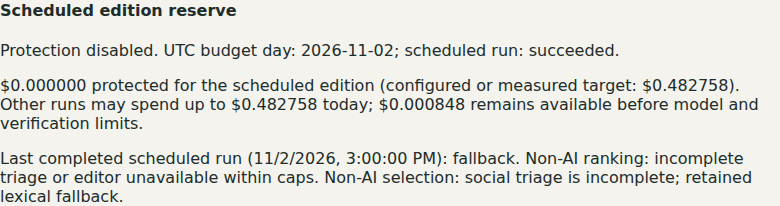
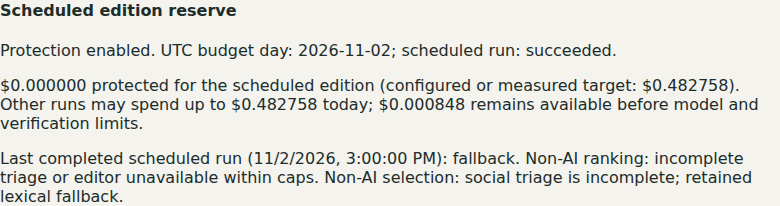
Enable scheduled edition AI budget protection in production

Changed region(s): [[0.0923, 0.2039, 0.8, 0.2913]]

diff --git a/PROGRESS.md b/PROGRESS.md
@@ -74,17 +74,6 @@ Iteration 189: [archive](docs/progress-archive/2026-11-02-iteration-189.md).
 
 Iteration 192: [archive](docs/progress-archive/2026-11-02-iteration-192.md).
 
-## 2026-11-02: iteration 194 — measured full-AI edition costs
-
-- Started clean on main; API/worker and DB/Redis health healthy. No leftover work; 32 sources without current errors and latest real edition four topics/10 posts.
-- Added a read-only historical cost reader for reserve sizing: sums settled article/social/model calls by edition/run ID over an inclusive 30-day lookback, newest ten qualifying editions.
-- Excludes fallback/mixed modes, incomplete triage, pending/uncertain holds, verification-tagged runs, future snapshots and cache-only/zero-cost editions. Failed released calls add no cost.
-- Conservative qualification requires AI in both sections of every topic; absent measurements retain whole-day protection in the existing policy. Accepts a transaction client for later shared-lock admission integration.
-- Added rollback-isolated Postgres fixtures for costs, ordering/limits, UTC lookback boundaries and exclusions. No live inference or Reddit requests; no UI changes.
-- `pnpm format`, `pnpm lint:fix`, `pnpm check` (104 unit/98 isolated integration), `pnpm build` and `git diff --check` passed. Updated decision 0002, README and TASKS.
-- Live reserve protection remains UNFINISHED. Next: cron/settings reconciliation, worker lifecycle and trusted scheduled identity, shared-lock admission/race tests, then manual/Status visibility before Nov 3 15:00 UTC.
-- Pushed `be4b6d2`; restarted API/worker with `systemctl --user restart news-digest-api news-digest-worker`: both active, `/healthz` DB/Redis true, SPA 200, all four queues available, 32 sources without errors, latest real edition four topics/10 posts.
-
 ## 2026-11-02: iteration 195 — reconcile pending reserve identities
 
 - Started clean on main; API/worker, DB/Redis health and 32 sources healthy. No leftover work.
@@ -256,3 +245,16 @@ Iteration 192: [archive](docs/progress-archive/2026-11-02-iteration-192.md).
 - `pnpm exec tsx scripts/smoke-manual-reserve.ts` passed desktop/mobile protected, submission-refresh, released and unavailable states using synthetic browser responses; saved live screenshots.
 - Live reads: four queues, 32 sources without errors, latest real edition four topics/10 posts; health DB/Redis true. No paid inference, live jobs or Reddit requests.
 - Updated reserve decision/TASKS and archived iteration 193. Reserve enforcement remains OFF; next: enable protection before Nov 3 15:00 UTC and measure scheduled cost/duration.
+
+## 2026-11-02: iteration 210 — enable scheduled AI budget protection
+
+- Started clean on main; services, health and 32 sources healthy. No leftover work.
+- Enabled shared environment reserve protection, 1.5x headroom, no fixed override; API/worker process environments verified without exposing secrets.
+- Default measured sizing protects the full daily cap without qualifying full-AI history; existing provider/model/billing caps remain unchanged.
+- Live Status: protection enabled, Nov 2 terminal fallback, $0.482758 target/$0 protected; Nov 3 15:00 UTC remains queued.
+- `pnpm format`, `pnpm lint:fix`, `pnpm check` (113 unit/113 isolated integration), `pnpm build`, `git diff --check` passed.
+- `pnpm exec tsx scripts/smoke-reserve-status.ts` passed live desktop/mobile plus synthetic protected/released states; updated screenshots.
+- `pnpm exec tsx scripts/report-edition-timing.ts` confirms retained four-topic/10-post fallback; no new AI timing claim.
+- Restarted API/worker; health DB/Redis true, SPA 200, 32 sources without errors. No paid inference, live jobs or Reddit requests.
+- Updated README/reserve decision/TASKS; archived iteration 194. Item 13 stays open for Nov 3 AI cost/duration evidence; no premature steering ack.
+- Next: observe scheduled run and measure AI editing/cost/duration; then scheduled X discovery under item 9.

diff --git a/README.md b/README.md
@@ -70,7 +70,7 @@ using stable publication keys and compare-and-swap settings reconciliation. Test
 cover delayed snapshots racing registration/reconciliation, restarts, day rollover
 and protection of claimed/terminal work. Published-slot recovery tests cover
 AI/mixed/fallback snapshots, manual-key exclusion, restart after cutoff and
-attempt fencing. Live ledger reserve enforcement remains unfinished.
+attempt fencing. Shared-lock reserve admission and lifecycle ordering are covered by isolated tests.
 `pnpm test` runs both commands; integration tests remain part of `pnpm check`.
 Both runners replace inherited database/Redis URLs, clear Anthropic/xAI keys and
 live-inference opt-in. Docker is required only for integration tests; there is no
@@ -158,7 +158,7 @@ BullMQ retains 100 successful/failed runs and retries failures three times with
 exponential backoff. Downtime does not backfill every missed daily edition.
 Scheduler refresh marks never-claimed daily budget slots failed after the same
 six-hour recovery window used by the worker; active attempts and retries remain
-protected. Budget reserve admission is still being implemented.
+protected. Shared-ledger admission protects the scheduled edition before other runs.
 Async API clients can `POST /api/digest-previews/jobs` with ISO `windowStart`
 and `windowEnd` values to receive HTTP 202 and a job ID without waiting for
 inference. Poll `GET /api/digest-previews/jobs/:id` for queue state, `editionId`,
@@ -358,18 +358,22 @@ never-claimed budget identity; concurrent claims and replacements are preserved.
 Refresh also recovers committed scheduled editions before the missed-slot cutoff,
 using immutable publication evidence and identity/attempt fencing under the ledger
 lock. Manual editions cannot release scheduled protection.
-Remaining reserve integration is tracked in
-[decision 0002](docs/decisions/0002-scheduled-edition-budget-reserve.md); ledger
-admission now has an opt-in shared-lock reserve primitive with attempt-fenced
-trusted context, but production enforcement is not active yet.
+Reserve implementation and rollout are tracked in
+[decision 0002](docs/decisions/0002-scheduled-edition-budget-reserve.md). Ledger
+admission uses shared-lock protection with attempt-fenced trusted context.
+Production enforcement was enabled in iteration 210.
 
 Anthropic production publication and guarded verification tools share
 `configuredLlmLedger`. Reserve deployment settings are
 `LLM_SCHEDULED_RESERVE_ENABLED` (`0` default, `1` opt-in), optional integer
 `LLM_SCHEDULED_RESERVE_MICROS`, and `LLM_SCHEDULED_RESERVE_HEADROOM` (default
-`1.5`, minimum `1`). Invalid values fail immediately. Leave enforcement off until
-the remaining lifecycle races and manual/Status visibility are implemented;
-this iteration does not claim live protection.
+`1.5`, minimum `1`). Invalid values fail immediately. The production environment
+enables protection with headroom `1.5` and no fixed amount override. Sizing uses
+the largest positive cost among the ten most recent full-AI editions within
+30 days; without qualifying
+evidence it protects the entire daily cap. Today's completed scheduled edition
+releases protection; the next UTC day protects its own scheduled run. No paid
+verification run is needed to enable this policy.
 
 Status shows whether scheduled AI reserve protection is enabled, the UTC budget
 day and durable run state, protected amount, configured/measured target, and

diff --git a/TASKS.md b/TASKS.md
@@ -6,7 +6,7 @@ Fix regressions, broken services and stalled sources before starting new work.
 ## Immediate owner priorities (STEERING overrides older milestone notes)
 
 - [ ] STEERING 13 TOP PRIORITY before Nov 3 15:00 UTC: reserve configurable Anthropic budget for the scheduled edition under the shared ledger lock; limit all other spend until completion/failure; expose reserve/manual limits and scheduled AI/fallback outcome. Fake/Testcontainers verification only. Measure next scheduled edition cost/duration for item 7.
-  - Iterations 192–205: durable UTC-day lifecycle, scheduler/worker fencing, historical sizing, opt-in shared-lock admission and trusted configurable composition implemented. Enforcement remains OFF. Iterations 206–207 verify lifecycle/admission ordering, prior-day fencing and saved-schedule no-occurrence release. Iteration 208 adds ledger-consistent Status reserve/manual allowance and last scheduled outcome visibility. Iteration 209 adds manual-create reserve notices and submission-time refresh. Next: enforcement enablement. See reserve decision and PROGRESS for detail.
+  - Iterations 192–205: durable UTC-day lifecycle, scheduler/worker fencing, historical sizing, opt-in shared-lock admission and trusted configurable composition implemented. Enforcement initially stayed off. Iterations 206–207 verify lifecycle/admission ordering, prior-day fencing and saved-schedule no-occurrence release. Iteration 208 adds ledger-consistent Status reserve/manual allowance and last scheduled outcome visibility. Iteration 209 adds manual-create reserve notices and submission-time refresh. Iteration 210 enables production enforcement with measured sizing and 1.5x headroom; no fixed override. Next: observe Nov 3 scheduled AI cost/duration before acknowledging item 13. See reserve decision and PROGRESS for detail.
 
 - [ ] STEERING 14: park Reddit collection in docs/Status, disable scheduling; no further Reddit HTTP requests. Social completion now requires X only. Priority order: 13, 7 scheduled timing, 9 scheduled X, 10 coverage; 2/4 lower priority.
 

diff --git a/docs/progress-archive/2026-11-02-iteration-194.md b/docs/progress-archive/2026-11-02-iteration-194.md
@@ -1,0 +1,12 @@
+# Archived progress
+
+## 2026-11-02: iteration 194 — measured full-AI edition costs
+
+- Started clean on main; API/worker and DB/Redis health healthy. No leftover work; 32 sources without current errors and latest real edition four topics/10 posts.
+- Added a read-only historical cost reader for reserve sizing: sums settled article/social/model calls by edition/run ID over an inclusive 30-day lookback, newest ten qualifying editions.
+- Excludes fallback/mixed modes, incomplete triage, pending/uncertain holds, verification-tagged runs, future snapshots and cache-only/zero-cost editions. Failed released calls add no cost.
+- Conservative qualification requires AI in both sections of every topic; absent measurements retain whole-day protection in the existing policy. Accepts a transaction client for later shared-lock admission integration.
+- Added rollback-isolated Postgres fixtures for costs, ordering/limits, UTC lookback boundaries and exclusions. No live inference or Reddit requests; no UI changes.
+- `pnpm format`, `pnpm lint:fix`, `pnpm check` (104 unit/98 isolated integration), `pnpm build` and `git diff --check` passed. Updated decision 0002, README and TASKS.
+- Live reserve protection remains UNFINISHED. Next: cron/settings reconciliation, worker lifecycle and trusted scheduled identity, shared-lock admission/race tests, then manual/Status visibility before Nov 3 15:00 UTC.
+- Pushed `be4b6d2`; restarted API/worker with `systemctl --user restart news-digest-api news-digest-worker`: both active, `/healthz` DB/Redis true, SPA 200, all four queues available, 32 sources without errors, latest real edition four topics/10 posts.

diff --git a/docs/decisions/0002-scheduled-edition-budget-reserve.md b/docs/decisions/0002-scheduled-edition-budget-reserve.md
@@ -276,3 +276,22 @@ These are current allowance estimates, not a promise of AI editing or proof
 that the reserve caused any particular topic's fallback. Browser checks use
 synthetic status/job responses; live screenshots are read-only. Enforcement
 remains OFF pending the separate operational enablement step.
+
+## Production enablement (iteration 210)
+
+Enabled `LLM_SCHEDULED_RESERVE_ENABLED=1` in the shared service environment,
+with `LLM_SCHEDULED_RESERVE_HEADROOM=1.5` and no fixed microdollar override.
+Sizing uses the largest qualifying cost among the ten most recent full-AI
+editions within 30 days, capped by the daily allowance; absent measurements it
+protects the full daily cap. This changes no provider, model or billing cap.
+
+Both restarted API and worker processes loaded these settings. Live Status
+reports enabled protection, Nov 2 succeeded/fallback, target $0.482758 and
+$0 protected because today's scheduled edition is terminal. The Nov 3 run
+remains queued for 15:00 UTC; its UTC day will get separate protection.
+Desktop/mobile Status screenshots show the enabled configuration. Browser
+protected/released variants remain synthetic and issue no provider requests.
+
+No paid trial or new edition was triggered. Item 13 remains open until the
+Nov 3 scheduled run demonstrates AI editing with measured cost and duration;
+do not acknowledge completion from enablement or today's fallback alone.
